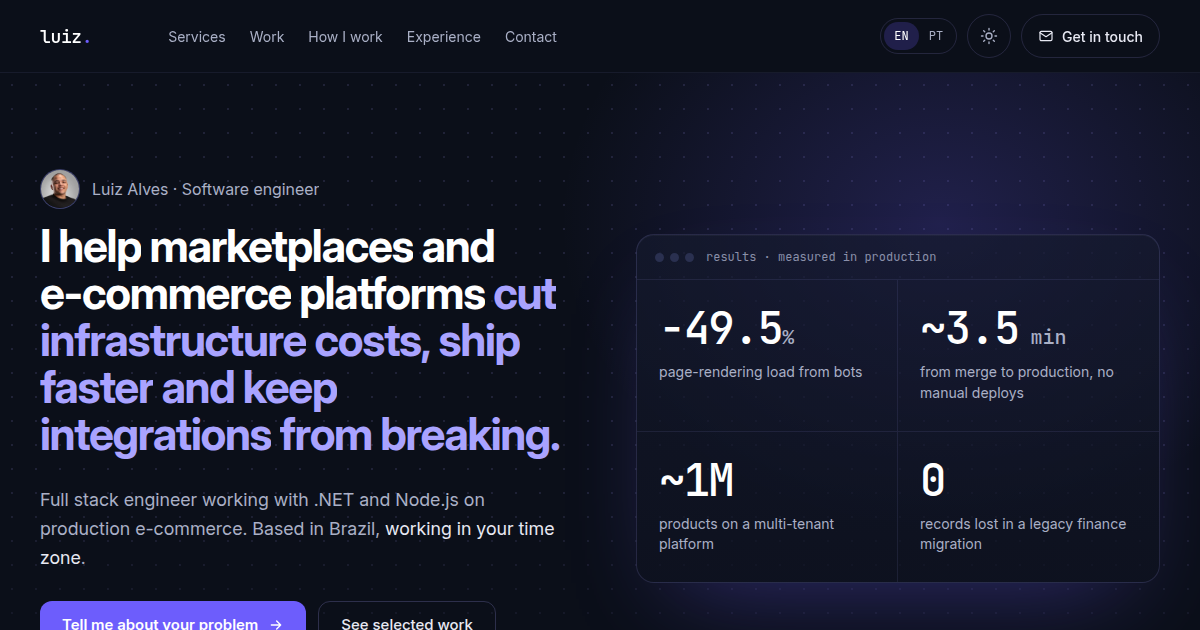
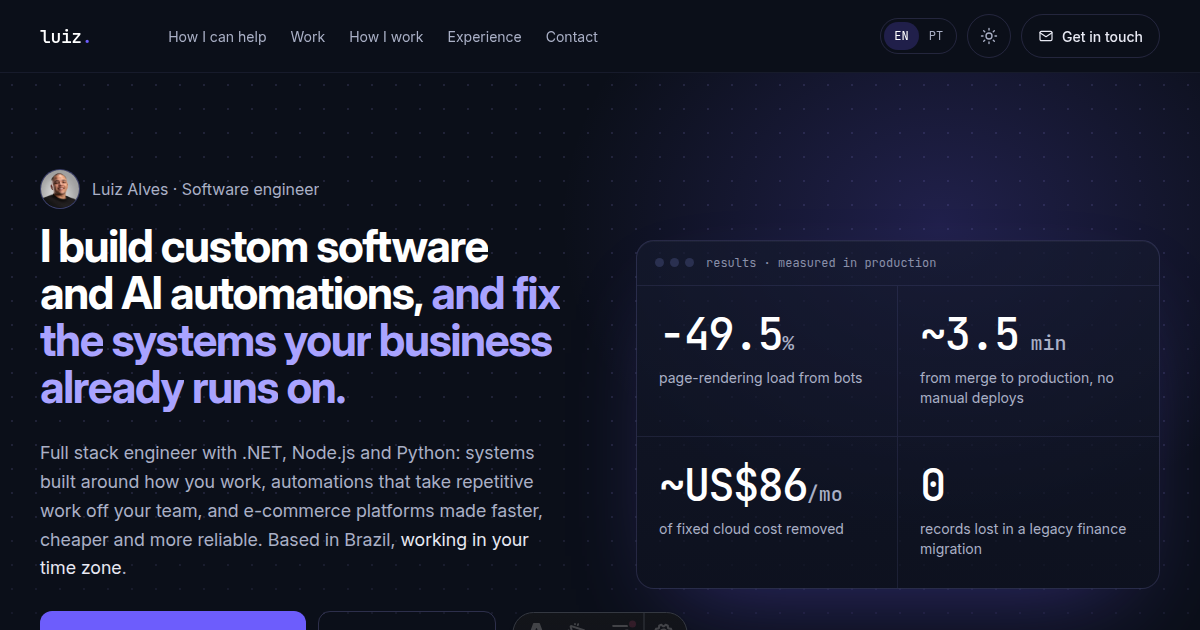
Broaden positioning to custom software, AI automations and e-commerce

diff --git a/src/i18n/content.ts b/src/i18n/content.ts
@@ -12,10 +12,10 @@ type Proof = { num: number; format: 'int' | 'dec' | 'tilde'; prefix?: string; su
 
 const marquee = [
   'C#', '.NET', 'ASP.NET Core', 'EF Core', 'Node.js', 'TypeScript', 'NestJS', 'PostgreSQL', 'Redis', 'RabbitMQ',
-  'Docker', 'Jenkins', 'GitHub Actions', 'AWS', 'Cloudflare', 'nginx', 'React', 'Next.js',
+  'Python', 'FastAPI', 'Claude API', 'Docker', 'Jenkins', 'GitHub Actions', 'AWS', 'Cloudflare', 'nginx', 'React', 'Next.js', 'Expo',
 ]
 
-const stack = ['C#/.NET', 'ASP.NET Core', 'EF Core', 'Node.js', 'TypeScript', 'NestJS', 'PostgreSQL', 'Redis', 'RabbitMQ', 'Docker', 'Jenkins', 'GitHub Actions', 'AWS', 'Cloudflare', 'nginx', 'React', 'Next.js']
+const stack = ['C#/.NET', 'ASP.NET Core', 'EF Core', 'Node.js', 'TypeScript', 'NestJS', 'Python', 'FastAPI', 'LLM APIs', 'PostgreSQL', 'Redis', 'RabbitMQ', 'Docker', 'Jenkins', 'GitHub Actions', 'AWS', 'Cloudflare', 'nginx', 'React', 'Next.js']
 
 const caseTags = [
   ['nginx', 'robots.txt', 'Next.js'],
@@ -35,9 +35,9 @@ export const content = {
   en: {
     lang: 'en',
     path: '/',
-    title: 'Luiz Alves · Software engineer for marketplaces and e-commerce',
+    title: 'Luiz Alves · Custom software, AI automations and e-commerce engineering',
     description:
-      'I help marketplaces and e-commerce platforms cut infrastructure costs, ship faster and keep integrations from breaking. .NET and Node.js, working in your time zone.',
+      'I build custom software and AI automations, and fix the systems your business already runs on. .NET, Node.js and Python, working in your time zone.',
     mailSubject: 'Project inquiry',
     nav: [
       ['services', 'How I can help'],
@@ -62,8 +62,8 @@ export const content = {
     hero: {
       hello: 'Luiz Alves · Software engineer',
       photoAlt: 'Photo of Luiz Alves',
-      title: ['I help marketplaces and e-commerce platforms', 'cut infrastructure costs, ship faster and keep integrations from breaking.'],
-      subtitle: 'Full stack engineer working with .NET and Node.js on production e-commerce. Based in Brazil, ',
+      title: ['I build custom software and AI automations,', 'and fix the systems your business already runs on.'],
+      subtitle: 'Full stack engineer with .NET, Node.js and Python: systems built around how you work, automations that take repetitive work off your team, and e-commerce platforms made faster, cheaper and more reliable. Based in Brazil, ',
       subtitleStrong: 'working in your time zone',
       cta1: 'Tell me about your problem',
       cta2: 'See selected work',
@@ -73,7 +73,7 @@ export const content = {
       items: [
         { num: 49.5, format: 'dec', prefix: '−', suffix: '%', desc: 'page-rendering load from bots' },
         { num: 3.5, format: 'dec', prefix: '~', suffix: ' min', desc: 'from merge to production, no manual deploys' },
-        { num: 1000000, format: 'tilde', desc: 'products on a multi-tenant platform' },
+        { num: 86, format: 'int', prefix: '~US$', suffix: '/mo', desc: 'of fixed cloud cost removed' },
         { num: 0, format: 'int', desc: 'records lost in a legacy finance migration' },
       ] as Proof[],
     },
@@ -81,10 +81,20 @@ export const content = {
     marqueeLabel: 'Technologies',
     services: {
       label: '01 / How I can help',
-      title: 'Whatever is holding your platform back',
-      subtitle: "I'm the engineer you bring in when something in your product needs fixing, building or untangling, across backend, frontend and infrastructure. These are the problems I see most often. They're examples, not a menu.",
+      title: 'Whatever your business needs from software',
+      subtitle: "I'm the engineer you bring in when something needs building, automating or fixing, across backend, frontend, infrastructure and AI. These are the problems I see most often. They're examples, not a menu.",
       cta: "Let's talk",
       list: [
+        {
+          name: 'A spreadsheet is running your business',
+          text: 'Monthly spreadsheets, numbering kept by hand, copy and paste between systems. I turn the process into software built around how you actually work, from requirements to production.',
+          proof: 'Receipts system built solo, live on AWS',
+        },
+        {
+          name: 'Repetitive work that AI could take over',
+          text: 'Reading documents, sorting requests, pulling data out of emails and PDFs, drafting replies. I build automations on top of LLMs where the AI proposes and your rules check it before anything is saved or sent.',
+          proof: 'AI entries validated by code before saving',
+        },
         {
           name: 'Your servers are busy, but not with customers',
           text: 'Bots and crawlers can take a large share of what your servers process. I measure your traffic by source and put the right rule in front of each one.',
@@ -114,16 +124,6 @@ export const content = {
           name: 'A legacy system has to go',
           text: 'Old and new running side by side, compared automatically and kept in sync until cutover, so nothing gets lost on the way.',
           proof: 'Finance migration with no data lost',
-        },
-        {
-          name: 'Something needs to be built',
-          text: 'A new feature, an internal tool or a whole system, from requirements to production, with the docs your team needs to run it.',
-          proof: 'Receipts system built solo, live on AWS',
-        },
-        {
-          name: 'You need another pair of hands',
-          text: 'A monthly block of hours as an extension of your team, from someone who already knows your system and keeps things moving.',
-          proof: 'Monthly, scoped up front',
         },
       ] as Service[],
       other: {
@@ -193,6 +193,26 @@ export const content = {
           tags: caseTags[4],
         },
       ] as Case[],
+      ai: {
+        kind: 'Mobile + web · AI',
+        name: 'Finanças',
+        description: 'Finance app for households on iOS, Android and web. You type an expense the way you would say it and an LLM turns it into a structured entry, with card statements, installments and recurring items handled for you.',
+        decisions: [
+          'The AI only proposes the entry; the app validates it with Zod before anything is saved.',
+          'Each household is an isolated tenant, with automated cross-household isolation tests.',
+          'Card purchases land on the right statement based on the closing day.',
+        ],
+        stack: ['Expo', 'React Native', 'TypeScript', 'PostgreSQL', 'Drizzle', 'Zod', 'Claude API'],
+        links: [{ label: 'Code', href: 'https://github.com/luizalvesdev/financas' }],
+        url: '',
+        image: '',
+        alt: '',
+        phones: [
+          { src: '/projects/financas-1.webp', alt: 'Monthly entries in the Finanças app' },
+          { src: '/projects/financas-2.webp', alt: 'Spending by category dashboard in the Finanças app' },
+          { src: '/projects/financas-3.webp', alt: 'Recurring and one-off entries in the Finanças app' },
+        ],
+      },
       side: {
         kind: 'SaaS · multi-tenant',
         name: 'Broadcast',
@@ -217,7 +237,7 @@ export const content = {
       title: 'How I work',
       steps: [
         { title: 'Written first', text: 'Send me an email describing the problem. I reply in writing, usually within one business day, with questions or a first read.' },
-        { title: 'Scope before work', text: "Once I understand the problem, you get a short proposal: what I'll do, what you'll get, timeline and a fixed price. Nothing starts before you approve it." },
+        { title: 'Scope before work', text: "Once I understand the problem, you get a short proposal: what I'll do, what you'll get, timeline and a fixed price. Ongoing work can be a monthly block of hours instead. Nothing starts before you approve it." },
         { title: 'Async, with overlap', text: "I'm in Natal, Brazil (UTC−3): 2–3 hours behind the UK and Ireland, and 1–2 hours ahead of US Eastern. Written updates as the work moves; calls when they actually help." },
         { title: 'You own everything', text: 'Code, docs and access stay with you. I leave the system documented so your team can run it without me.' },
       ] as Step[],
@@ -245,9 +265,9 @@ export const content = {
   pt: {
     lang: 'pt-BR',
     path: '/pt/',
-    title: 'Luiz Alves · Engenheiro de software para marketplaces e e-commerce',
+    title: 'Luiz Alves · Sistemas sob medida, automações com IA e e-commerce',
     description:
-      'Ajudo marketplaces e e-commerces a reduzir custo de infraestrutura, entregar mais rápido e manter as integrações de pé. .NET e Node.js, no seu fuso.',
+      'Construo sistemas sob medida e automações com IA, e conserto os sistemas que já rodam o seu negócio. .NET, Node.js e Python, no seu fuso.',
     mailSubject: 'Contato sobre projeto',
     nav: [
       ['services', 'Como ajudo'],
@@ -272,8 +292,8 @@ export const content = {
     hero: {
       hello: 'Luiz Alves · Engenheiro de software',
       photoAlt: 'Foto de Luiz Alves',
-      title: ['Ajudo marketplaces e e-commerces a', 'reduzir custo de infraestrutura, entregar mais rápido e manter as integrações de pé.'],
-      subtitle: 'Engenheiro full stack com .NET e Node.js em e-commerce em produção. Baseado no Brasil, ',
+      title: ['Construo sistemas sob medida e automações com IA,', 'e conserto os sistemas que já rodam o seu negócio.'],
+      subtitle: 'Engenheiro full stack com .NET, Node.js e Python: sistemas feitos do jeito que você trabalha, automações que tiram trabalho repetitivo do seu time e plataformas de e-commerce mais rápidas, baratas e confiáveis. Baseado no Brasil, ',
       subtitleStrong: 'trabalhando no seu fuso',
       cta1: 'Me conte seu problema',
       cta2: 'Ver trabalhos',
@@ -283,7 +303,7 @@ export const content = {
       items: [
         { num: 49.5, format: 'dec', prefix: '−', suffix: '%', desc: 'de carga de renderização com bots' },
         { num: 3.5, format: 'dec', prefix: '~', suffix: ' min', desc: 'do merge à produção, sem deploy manual' },
-        { num: 1000000, format: 'tilde', desc: 'de produtos numa plataforma multi-tenant' },
+        { num: 86, format: 'int', prefix: '~US$', suffix: '/mês', desc: 'de custo fixo de nuvem eliminados' },
         { num: 0, format: 'int', desc: 'registros perdidos na migração de um financeiro legado' },
       ] as Proof[],
     },
@@ -291,10 +311,20 @@ export const content = {
     marqueeLabel: 'Tecnologias',
     services: {
       label: '01 / Como posso ajudar',
-      title: 'O que estiver travando sua plataforma',
-      subtitle: 'Sou o engenheiro que você chama quando algo no seu produto precisa ser corrigido, construído ou destravado, no backend, no frontend ou na infraestrutura. Estes são os problemas que mais aparecem. São exemplos, não um cardápio.',
+      title: 'O que o seu negócio precisar de software',
+      subtitle: 'Sou o engenheiro que você chama quando algo precisa ser construído, automatizado ou consertado, no backend, no frontend, na infraestrutura ou com IA. Estes são os problemas que mais aparecem. São exemplos, não um cardápio.',
       cta: 'Vamos conversar',
       list: [
+        {
+          name: 'Uma planilha está tocando o seu negócio',
+          text: 'Planilha mensal, numeração controlada na mão, copiar e colar entre sistemas. Transformo o processo num sistema feito do jeito que você trabalha, do levantamento à produção.',
+          proof: 'Sistema de recibos feito sozinho, no ar na AWS',
+        },
+        {
+          name: 'Trabalho repetitivo que a IA poderia assumir',
+          text: 'Ler documentos, triar pedidos, extrair dados de e-mails e PDFs, rascunhar respostas. Construo automações com LLMs em que a IA propõe e as suas regras conferem antes de qualquer coisa ser salva ou enviada.',
+          proof: 'Lançamentos por IA validados pelo código antes de salvar',
+        },
         {
           name: 'Seus servidores estão ocupados, mas não com clientes',
           text: 'Bots e crawlers podem ser boa parte do que seus servidores processam. Meço o tráfego por origem e coloco a regra certa na frente de cada um.',
@@ -324,16 +354,6 @@ export const content = {
           name: 'Um sistema legado precisa sair',
           text: 'Antigo e novo rodando lado a lado, conferidos automaticamente e sincronizados até a virada, para nada se perder no caminho.',
           proof: 'Migração de financeiro sem perda de dados',
-        },
-        {
-          name: 'Algo precisa ser construído',
-          text: 'Uma funcionalidade nova, uma ferramenta interna ou um sistema inteiro, do levantamento à produção, com a documentação que o time precisa para tocar.',
-          proof: 'Sistema de recibos feito sozinho, no ar na AWS',
-        },
-        {
-          name: 'Você precisa de mais alguém no time',
-          text: 'Um bloco mensal de horas como extensão do seu time, de alguém que já conhece o sistema e mantém as coisas andando.',
-          proof: 'Mensal, com escopo combinado antes',
         },
       ] as Service[],
       other: {
@@ -403,6 +423,26 @@ export const content = {
           tags: caseTags[4],
         },
       ] as Case[],
+      ai: {
+        kind: 'Mobile + web · IA',
+        name: 'Finanças',
+        description: 'App de finanças para casas e famílias no iOS, Android e web. Você digita o gasto do jeito que falaria e um LLM transforma em lançamento estruturado, com faturas de cartão, parcelamentos e recorrentes tratados pelo app.',
+        decisions: [
+          'A IA só propõe o lançamento; o app valida com Zod antes de salvar qualquer coisa.',
+          'Cada casa é um tenant isolado, com testes automatizados de isolamento entre casas.',
+          'Compra no cartão cai na fatura certa pelo dia de fechamento.',
+        ],
+        stack: ['Expo', 'React Native', 'TypeScript', 'PostgreSQL', 'Drizzle', 'Zod', 'Claude API'],
+        links: [{ label: 'Código', href: 'https://github.com/luizalvesdev/financas' }],
+        url: '',
+        image: '',
+        alt: '',
+        phones: [
+          { src: '/projects/financas-1.webp', alt: 'Lançamentos do mês no app Finanças' },
+          { src: '/projects/financas-2.webp', alt: 'Painel de gastos por categoria no app Finanças' },
+          { src: '/projects/financas-3.webp', alt: 'Recorrentes e lançamentos avulsos no app Finanças' },
+        ],
+      },
       side: {
         kind: 'SaaS · multi-tenant',
         name: 'Broadcast',
@@ -427,7 +467,7 @@ export const content = {
       title: 'Como trabalho',
       steps: [
         { title: 'Por escrito primeiro', text: 'Me mande um e-mail descrevendo o problema. Respondo por escrito, normalmente em até um dia útil, com perguntas ou uma primeira análise.' },
-        { title: 'Escopo antes do trabalho', text: 'Entendido o problema, você recebe uma proposta curta: o que vou fazer, o que você recebe, prazo e preço fechado. Nada começa antes da sua aprovação.' },
+        { title: 'Escopo antes do trabalho', text: 'Entendido o problema, você recebe uma proposta curta: o que vou fazer, o que você recebe, prazo e preço fechado. Para trabalho contínuo, pode ser um bloco mensal de horas. Nada começa antes da sua aprovação.' },
         { title: 'Assíncrono, com horário em comum', text: 'Estou em Natal (UTC−3), com boa sobreposição de horário com Europa e EUA. Atualizações por escrito durante o trabalho; call quando realmente ajuda.' },
         { title: 'Tudo fica com você', text: 'Código, documentação e acessos são seus. Deixo o sistema documentado para o seu time tocar sem mim.' },
       ] as Step[],
